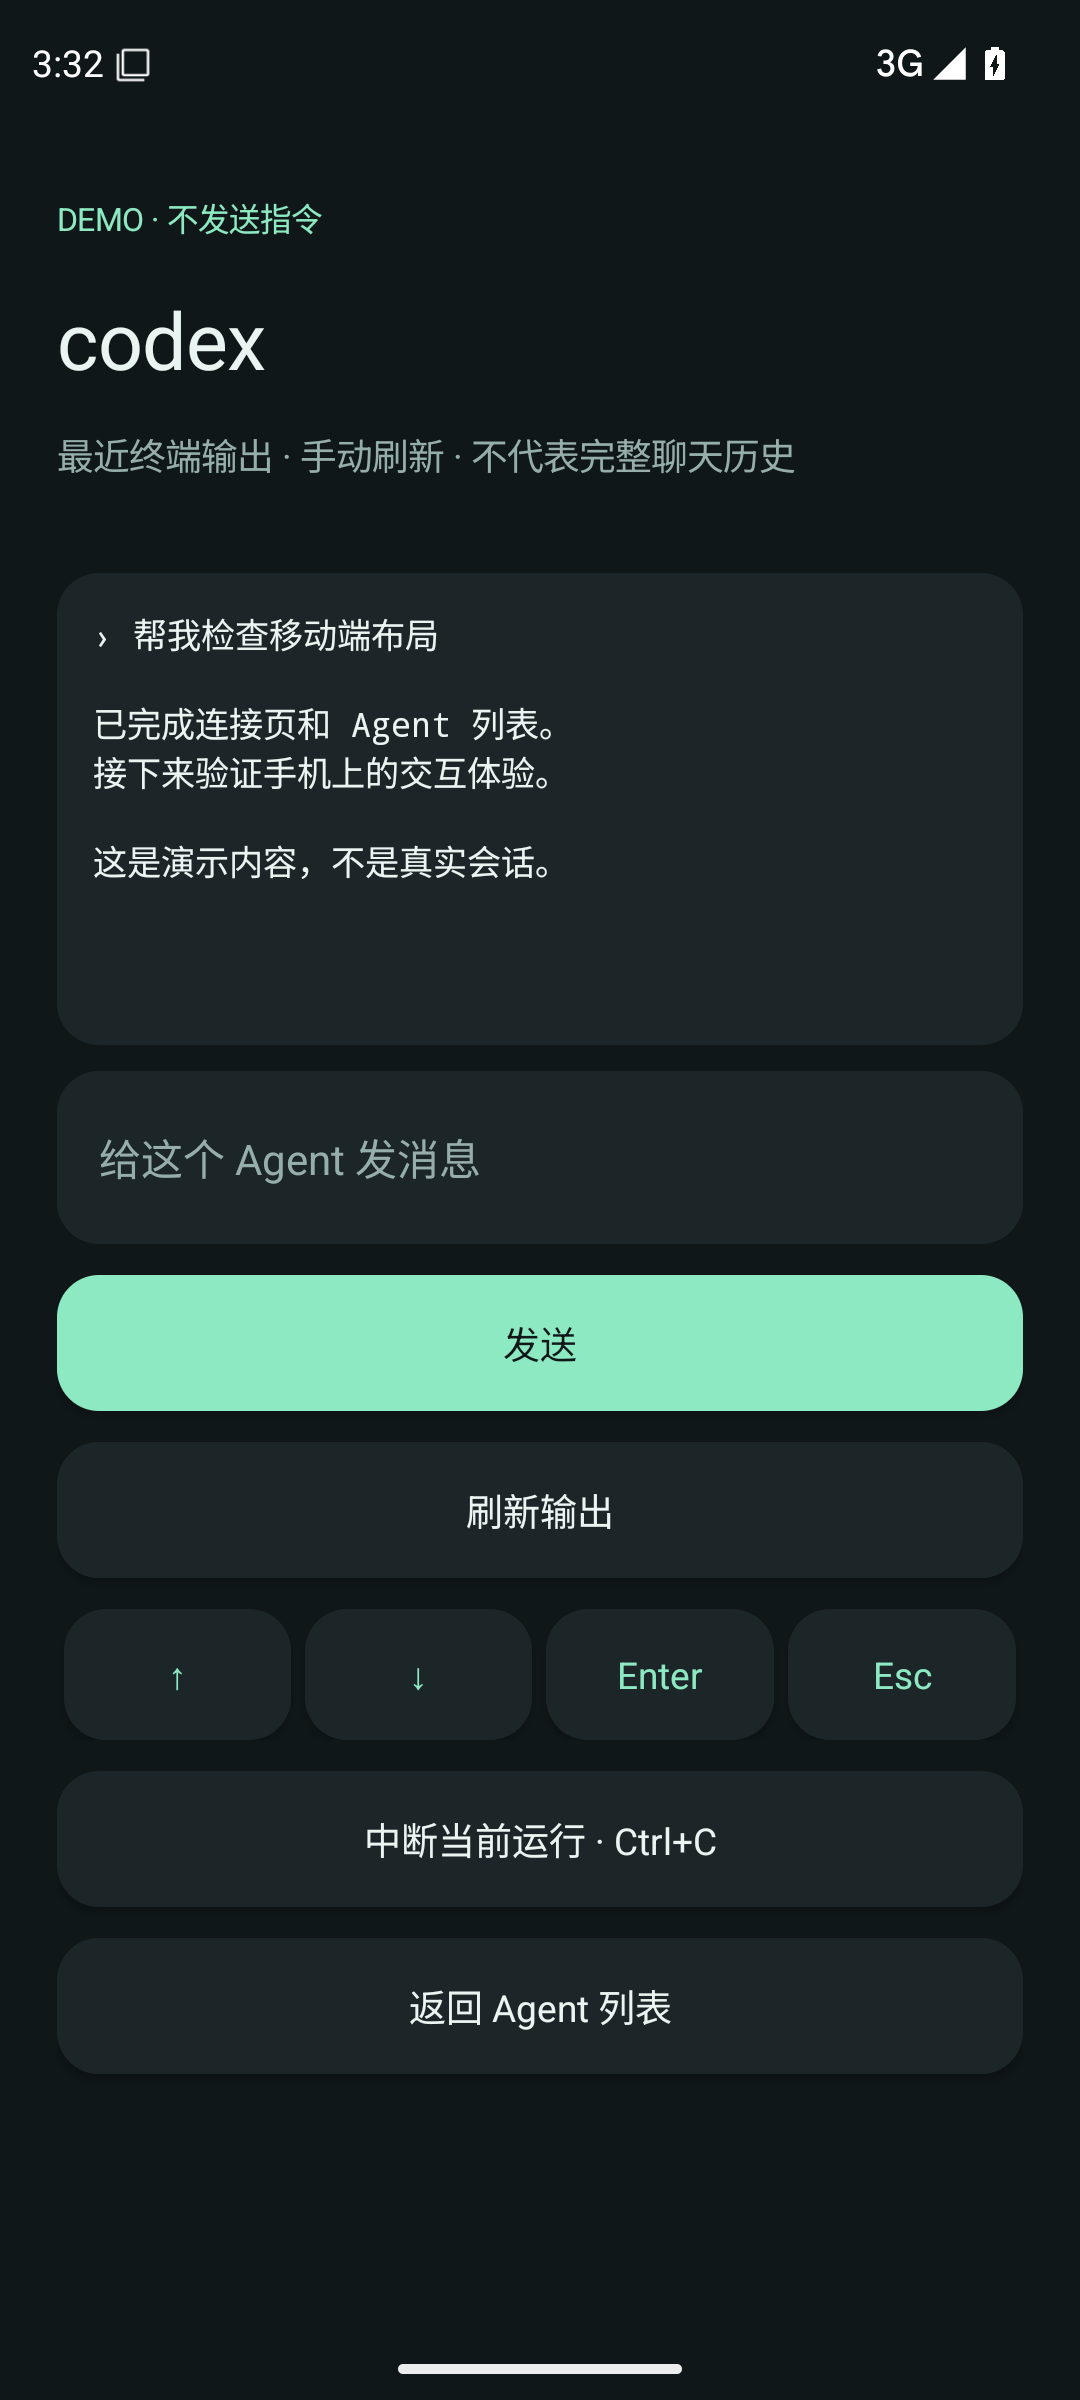
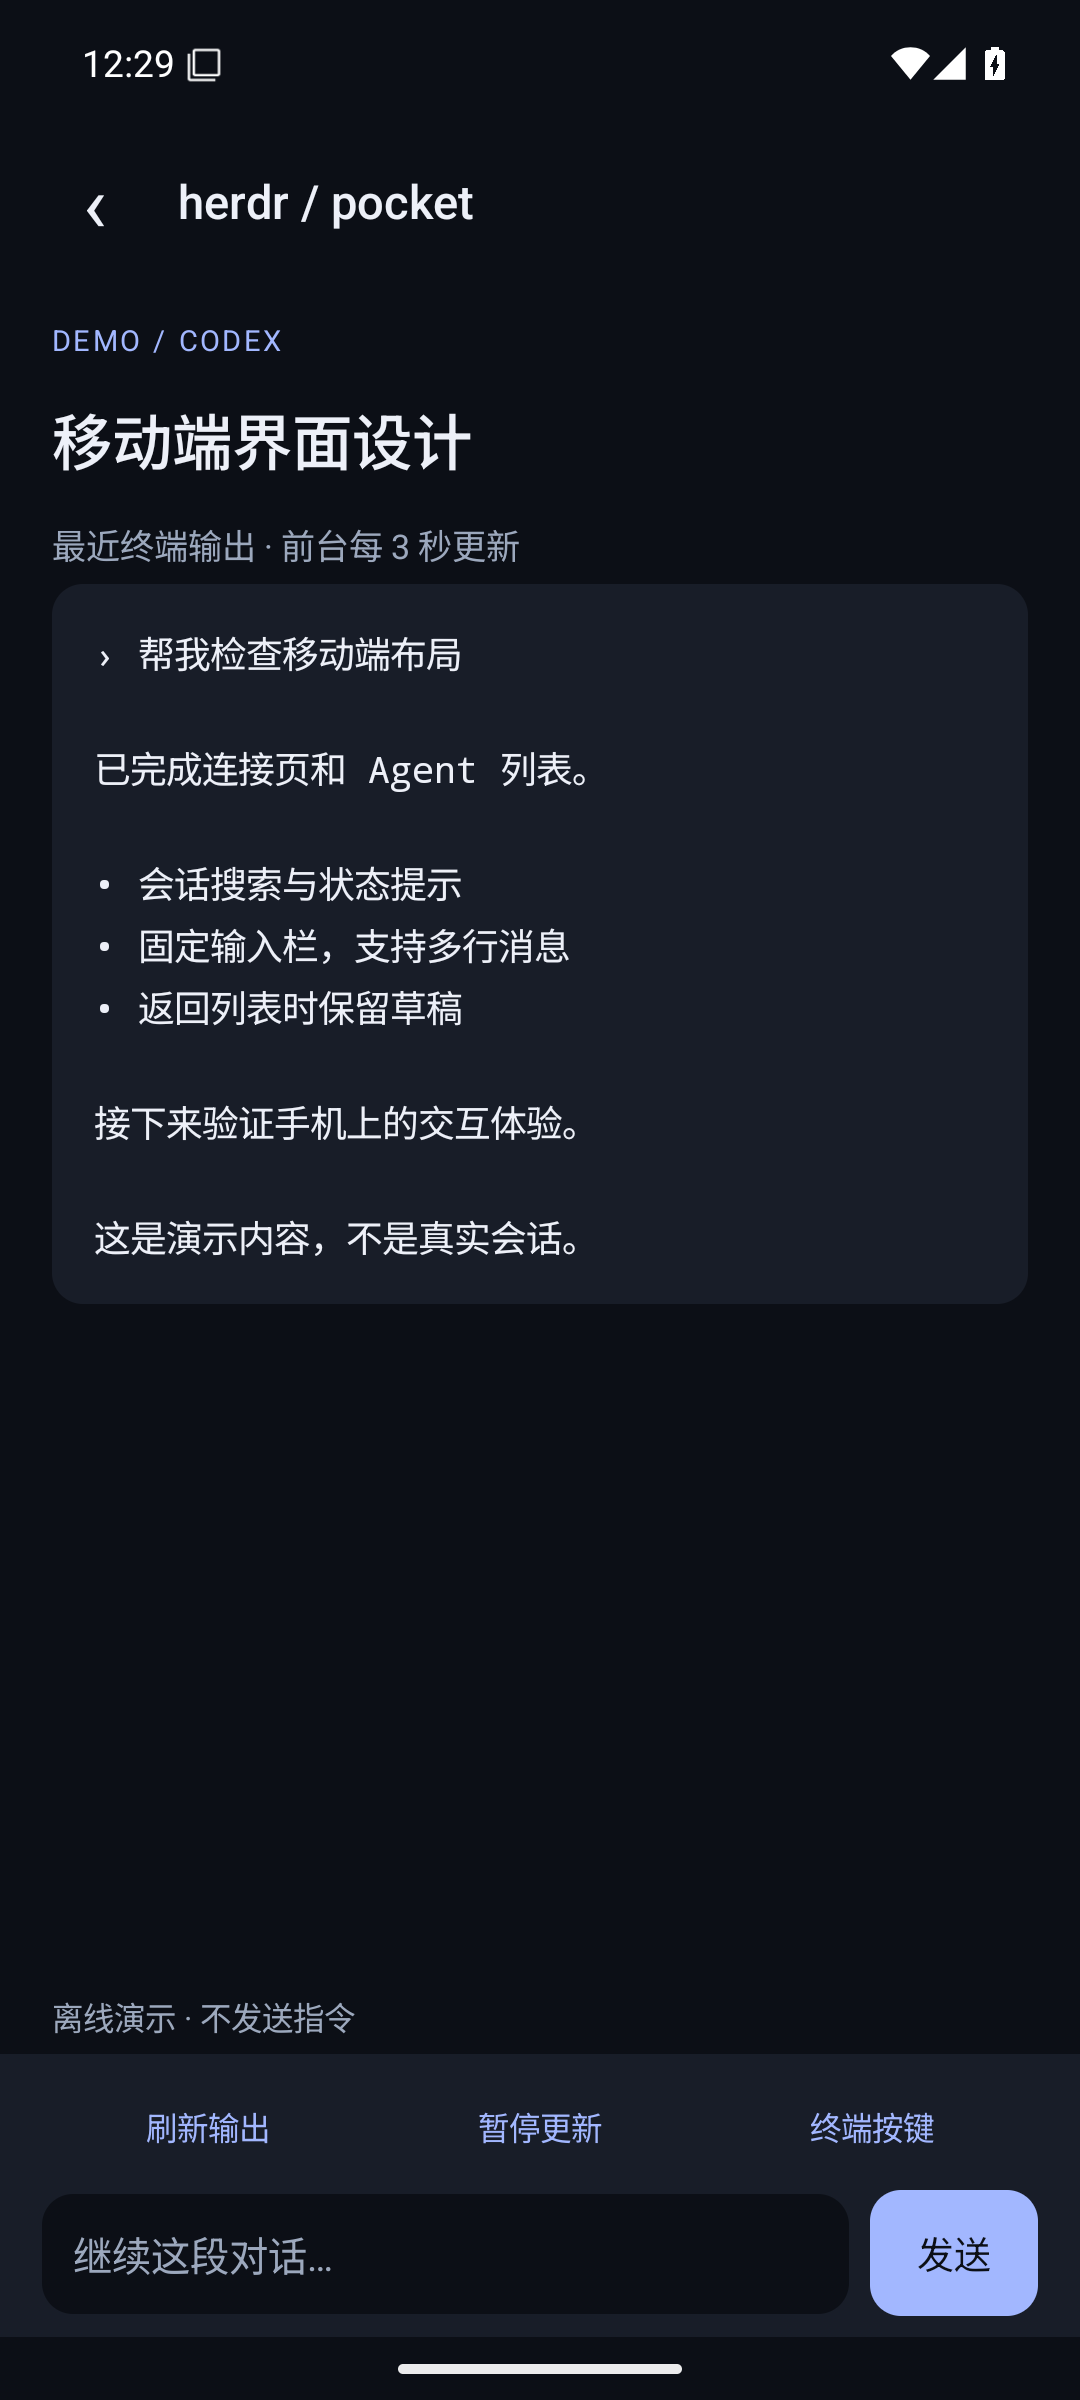
Record verified redesign screenshots and release evidence [skip ci]

diff --git a/docs/VALIDATION.md b/docs/VALIDATION.md
@@ -1,3 +1,19 @@
+# v0.2.0 redesign validation (2026-10-14)
+
+Validated source: `97ded4a`. [Successful CI and automatic release](https://github.com/HFO4AR/herdr-pocket/actions/runs/38563814065).
+[Signed preview APK](https://github.com/HFO4AR/herdr-pocket/releases/tag/preview-7).
+
+- PASS: 12 bridge unit tests; local debug build; cloud Android lint and debug/release builds.
+- PASS: API 35 emulator checked connection form validation, demo session selection, Agent list, output refresh, visible composer above keyboard, safe demo send, hierarchical back navigation, draft retention, rotation and search empty state.
+- PASS: Actual emulator screenshots inspected: portrait list/output, software keyboard and landscape. See `screenshots/` (offline demo data only).
+- PASS: Dedicated signed release APK independently downloaded; `apksigner verify --print-certs` and SHA-256 checksum verified. Public signing certificate is documented in SECURITY.md.
+- PASS: GitHub Actions automatically published `preview-7` only after all checks passed. Main pushes produce signed preview releases; `v*` tags produce versioned releases.
+- Fixed during verification: font constants rejected by lint; demo polling overwrote send feedback; toolbar alignment and default button shadows.
+- NOT VERIFIED: This version on a physical phone, real APK SSH/SFTP operations, real foreground polling, or prompt/key delivery through the user's tunnel. No real Agent received test input.
+- Rotation preserves the Activity; process death still disconnects and discards in-memory credentials/drafts. Terminal output remains a recent plain-text snapshot, not full conversation history.
+
+---
+
 # Initial validation (2026-10-13)
 
 - PASS: 12 Python bridge unit tests. Covers argument isolation, plain-text terminal output, protocol validation, session existence, agent replacement, busy-state refusal, allowed keys, duplicate/conflicting request IDs, and unknown outcomes.

diff --git a/SECURITY.md b/SECURITY.md
@@ -11,3 +11,16 @@
 - Physical machinery, irreversible actions, and third-party project safety requirements still require their own authorization. A remote Enter is a real keypress.
 
 For a vulnerability, use GitHub private vulnerability reporting if enabled, or contact the repository owner without posting credentials or exploit details publicly.
+
+## Distribution signing
+
+Automated distributions from v0.2.0 use a dedicated release key (not the v0.1.0 debug certificate).
+Certificate SHA-256:
+
+```
[1 lines of base64/hex data omitted]
+```
+
+Check with Android SDK `apksigner verify --print-certs herdr-pocket.apk`.
+The APK checksum is distributed alongside each release. Signing secrets are only available to main/tag builds;
+pull requests cannot publish. Publication waits for build, lint, bridge tests and offline emulator checks.
